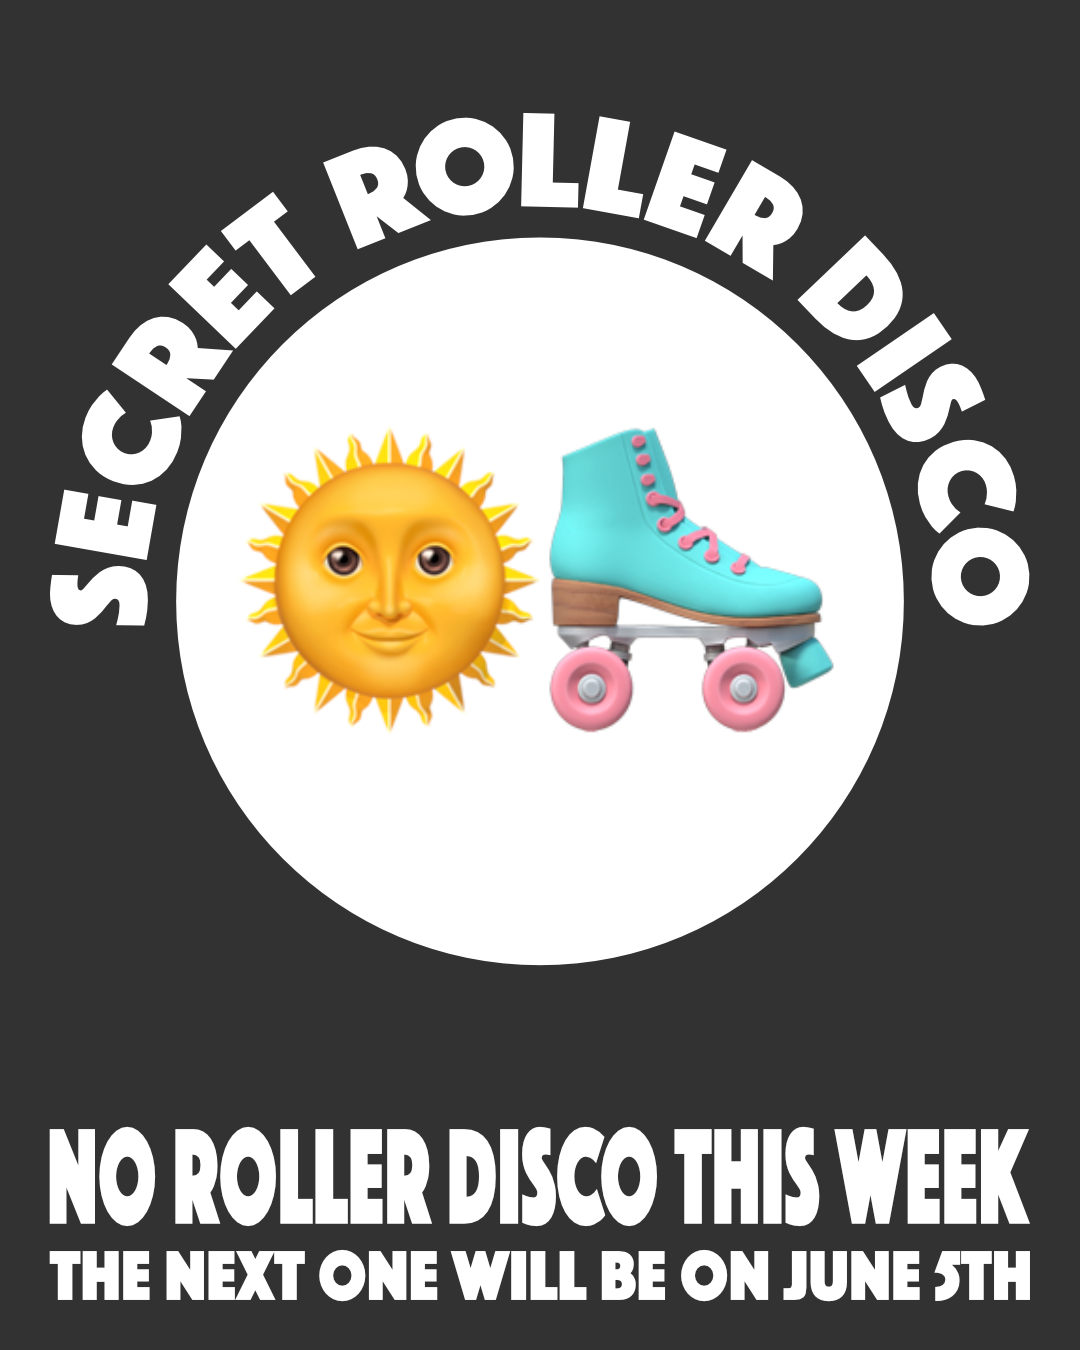
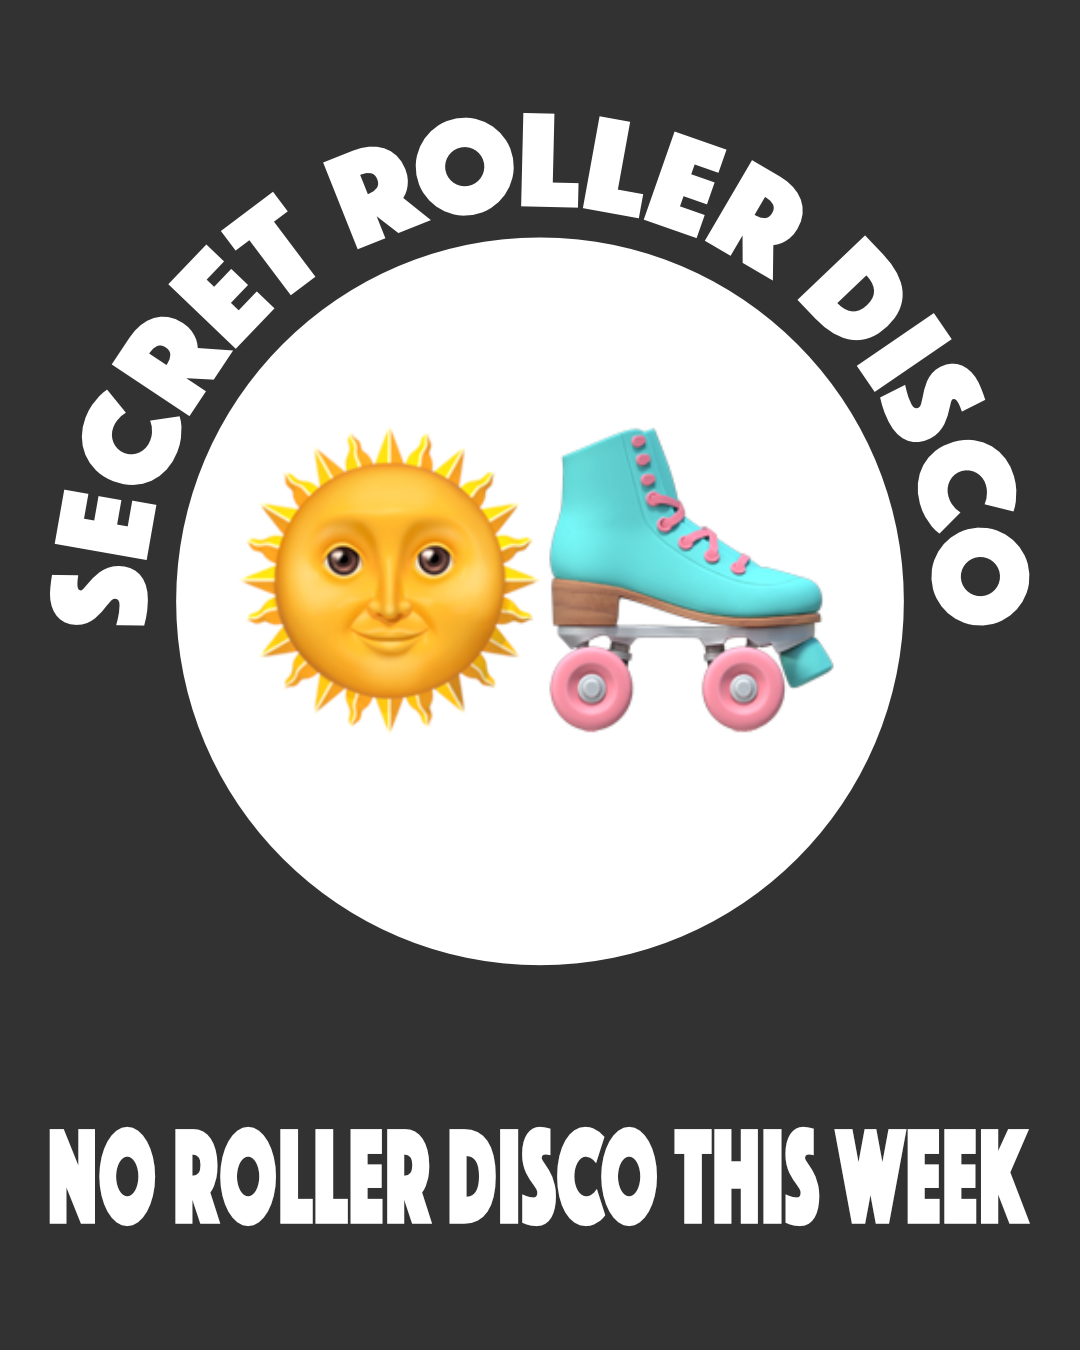
no disco flyer for 2025-06-12

Changed region(s): [[0.0306, 0.9022, 0.9778, 0.9644]]

diff --git a/index.html b/index.html
@@ -78,9 +78,6 @@ layout: default
       {% elsif post.rentals == false %}
         <p><strong>☹ NO SKATE RENTALS ☹</strong></p>
       {% endif %}
-
-      <img class='img-fluid pb-5' src='images/flyers/flyer-2025-06-05-2.png' />
-      <img class='img-fluid' src='images/flyers/flyer-2025-06-05-3.png' />
     </div>
 
     {% if post.map == true %}

diff --git a/_posts/2025-06-12-none.md b/_posts/2025-06-12-none.md
@@ -1,0 +1,3 @@
+---
+layout: default
+---
